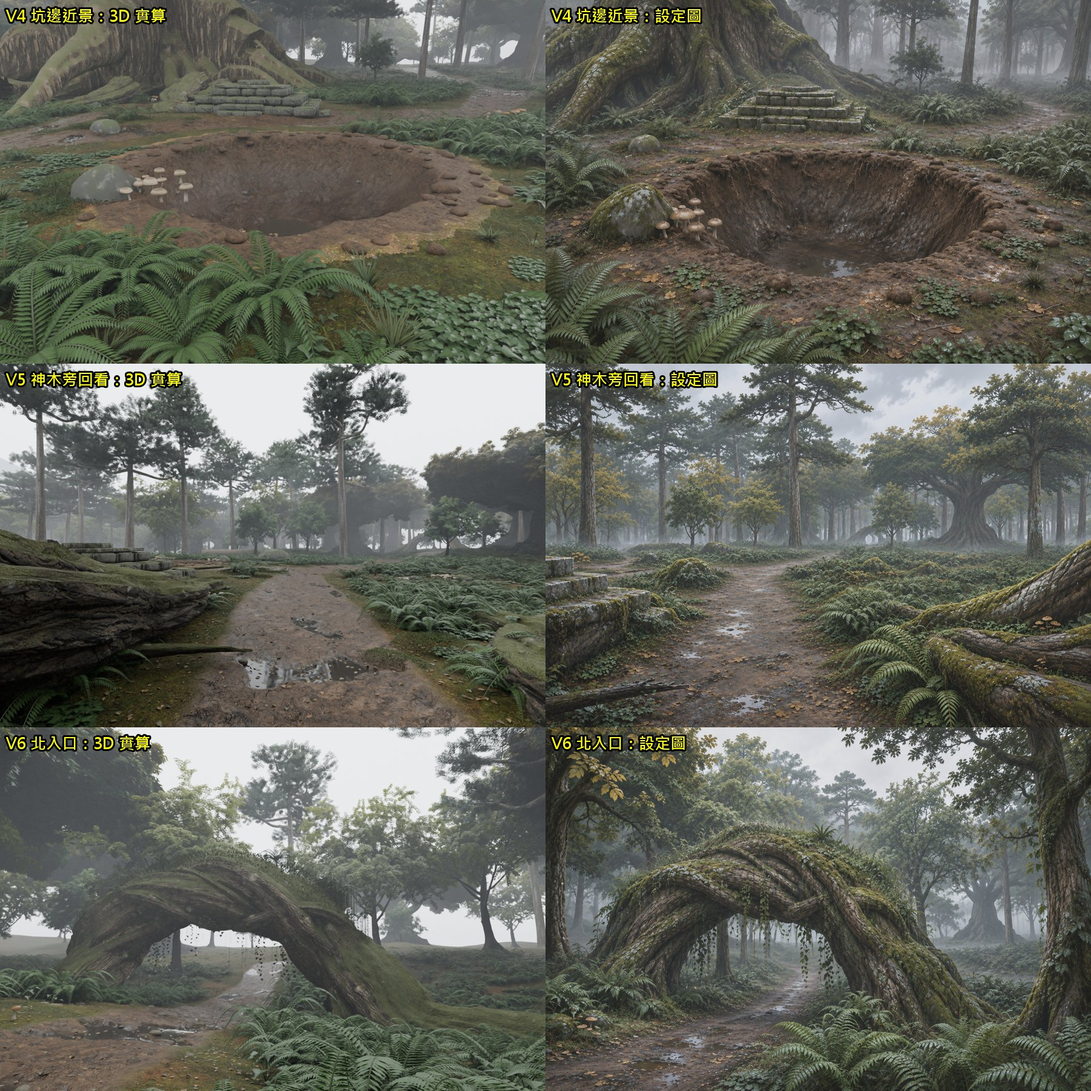
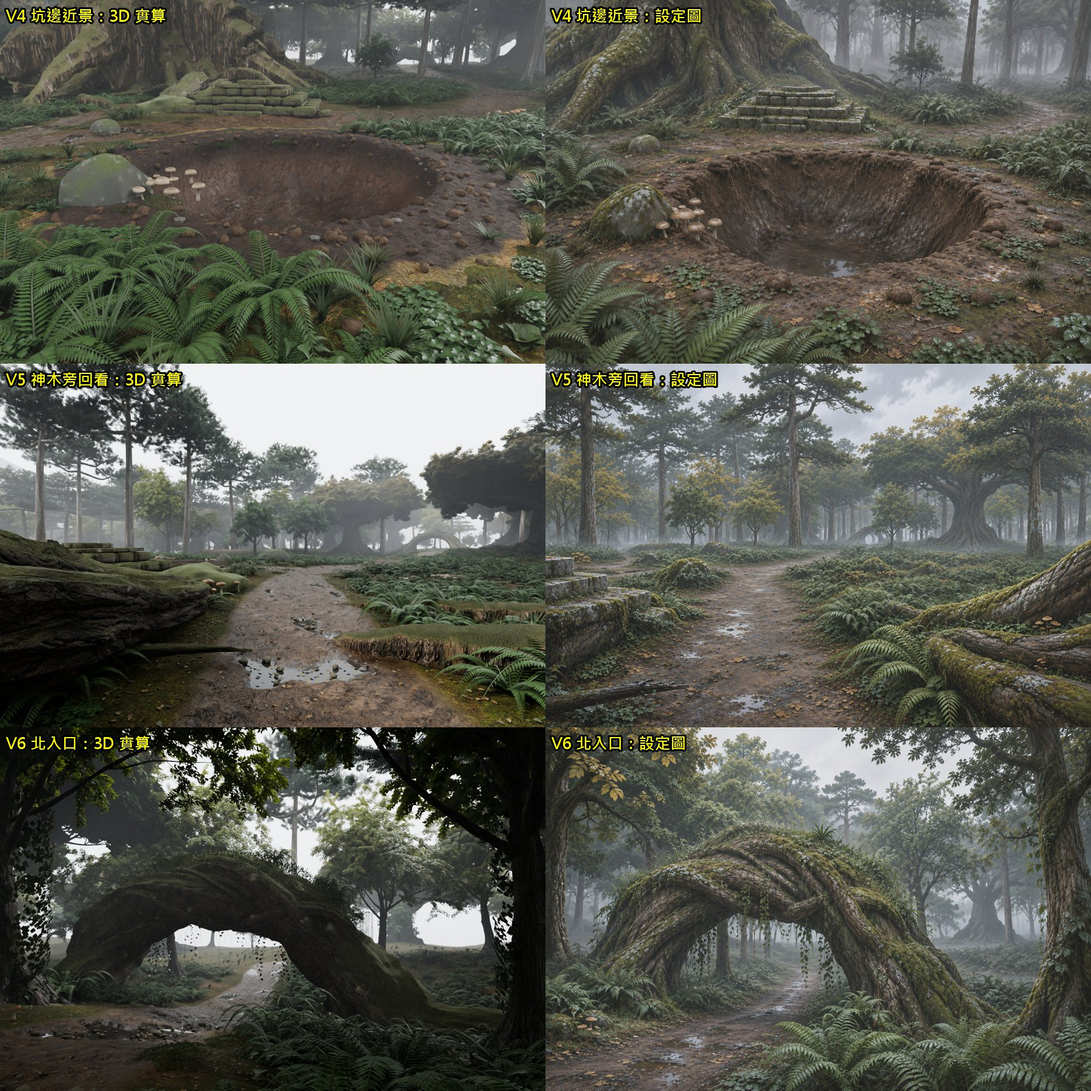
D2: adopt higher-contrast lighting (stronger sun, weaker sky, AgX Medium High Contrast) and clear a forest strip along the foreground path so V1 shows the trail; full six-view refresh

Changed region(s): [[0.0, 0.0, 0.4978, 1.0], [0.4667, 0.3733, 0.4978, 0.4044]]

diff --git a/art/source/core-d2-v1/d2_plan.py b/art/source/core-d2-v1/d2_plan.py
@@ -1037,6 +1037,8 @@ if 'real' in argv:   # 設定圖 V1：松樹比例高、樹冠之間看得到樹
 for x, y, k, s in TREES:
     if 'real' in argv and (any(math.hypot(x - cx, y - cy) < (16 if k == 'G' else 8) for cx, cy in _CAMS) or math.hypot(x - ARCH_N[0], y - ARCH_N[1]) < (24 if k == 'G' else 12)):
         continue   # 真樹的樹冠比方塊寬，相機旁邊的樹拿掉，免得鏡頭被擋
+    if 'real' in argv and y < 10 and path_d(x, y) < 13:   # 11/22 z1nnz 選了試做版
+        continue   # 11/22 試做：V1 俯瞰前景那段路兩旁清出一條林間空帶，從上面看得到小路
     KIND[k](x, y, s)
 if 'real' in argv:   # V6 北入口兩側的近景大樹
     # 11/22 V6 框景：右邊近處一棵粗幹老樹、左邊近處一棵黃綠闊葉樹，把拱門框在中間（設定圖 V6）
@@ -1676,7 +1678,7 @@ if 'real' in argv:   # 陰天：天光為主、太陽弱（設定圖是散射光
     sc.view_settings.exposure = 1.0
     bg.inputs['Strength'].default_value = 3.4
     sun.energy = 1.2
-    if 'contrast' in argv:   # 11/22 試做：設定圖受光面和陰影對比較強 → 太陽加強、天光減弱、AgX 中高對比
+    if 'flat' not in argv:   # 11/22 z1nnz 選了試做版（預設開）：設定圖受光面和陰影對比較強 → 太陽加強、天光減弱、AgX 中高對比
         bg.inputs['Strength'].default_value = 2.6
         sun.energy = 2.6
         for _lk in ('AgX - Medium High Contrast', 'Medium High Contrast'):
